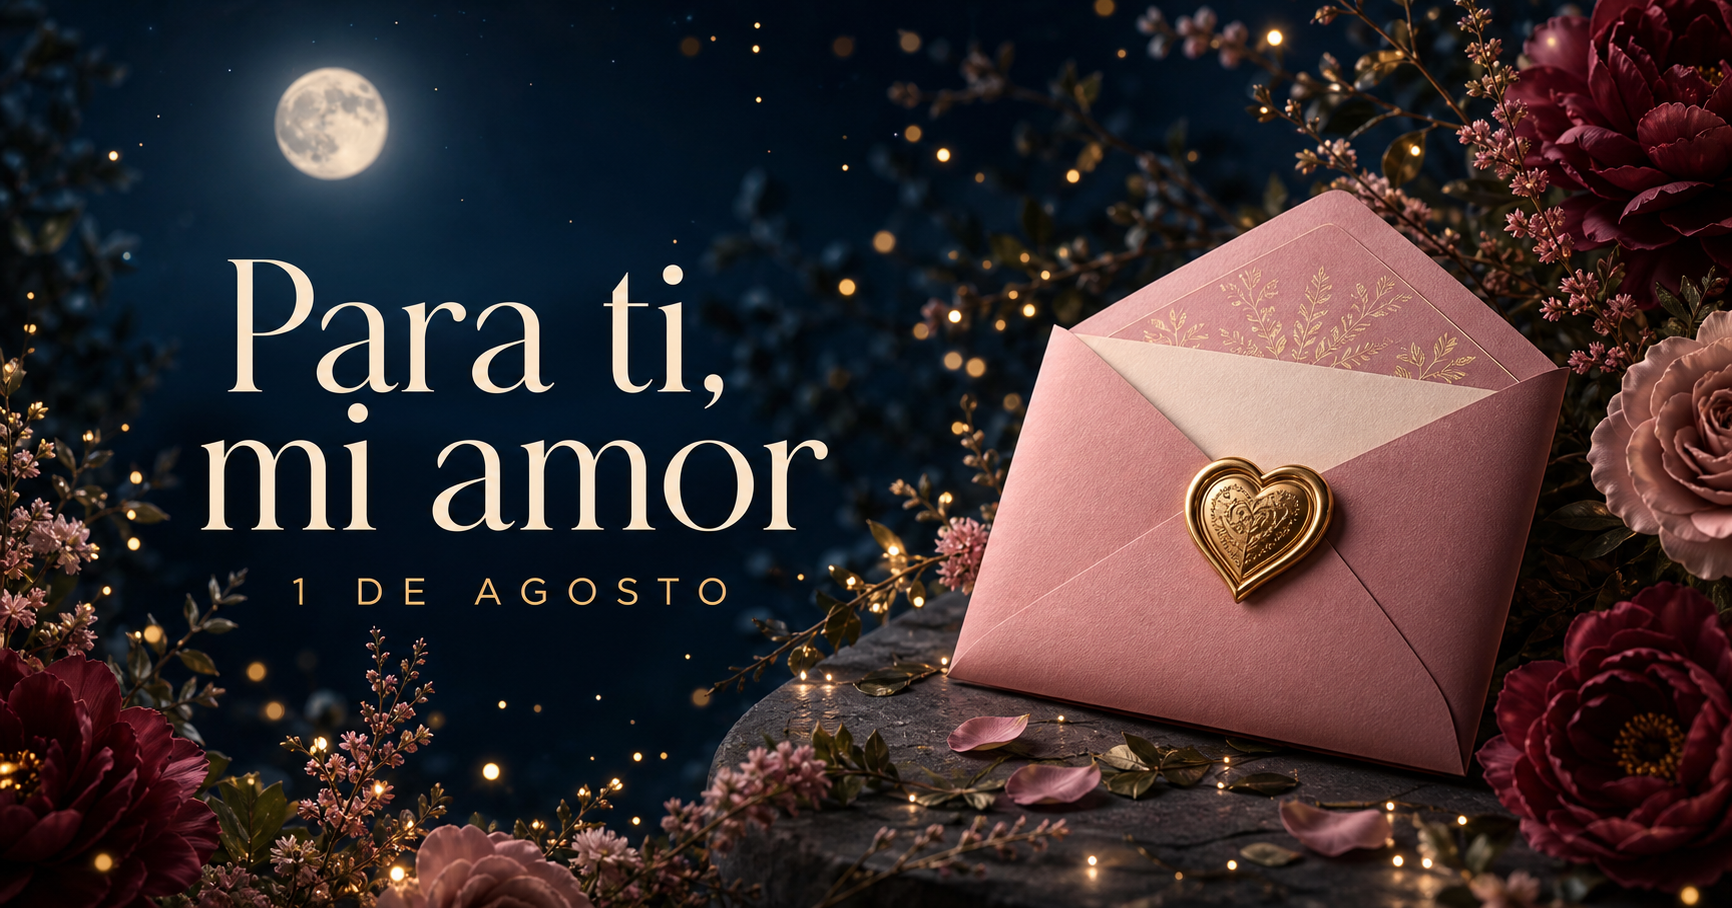
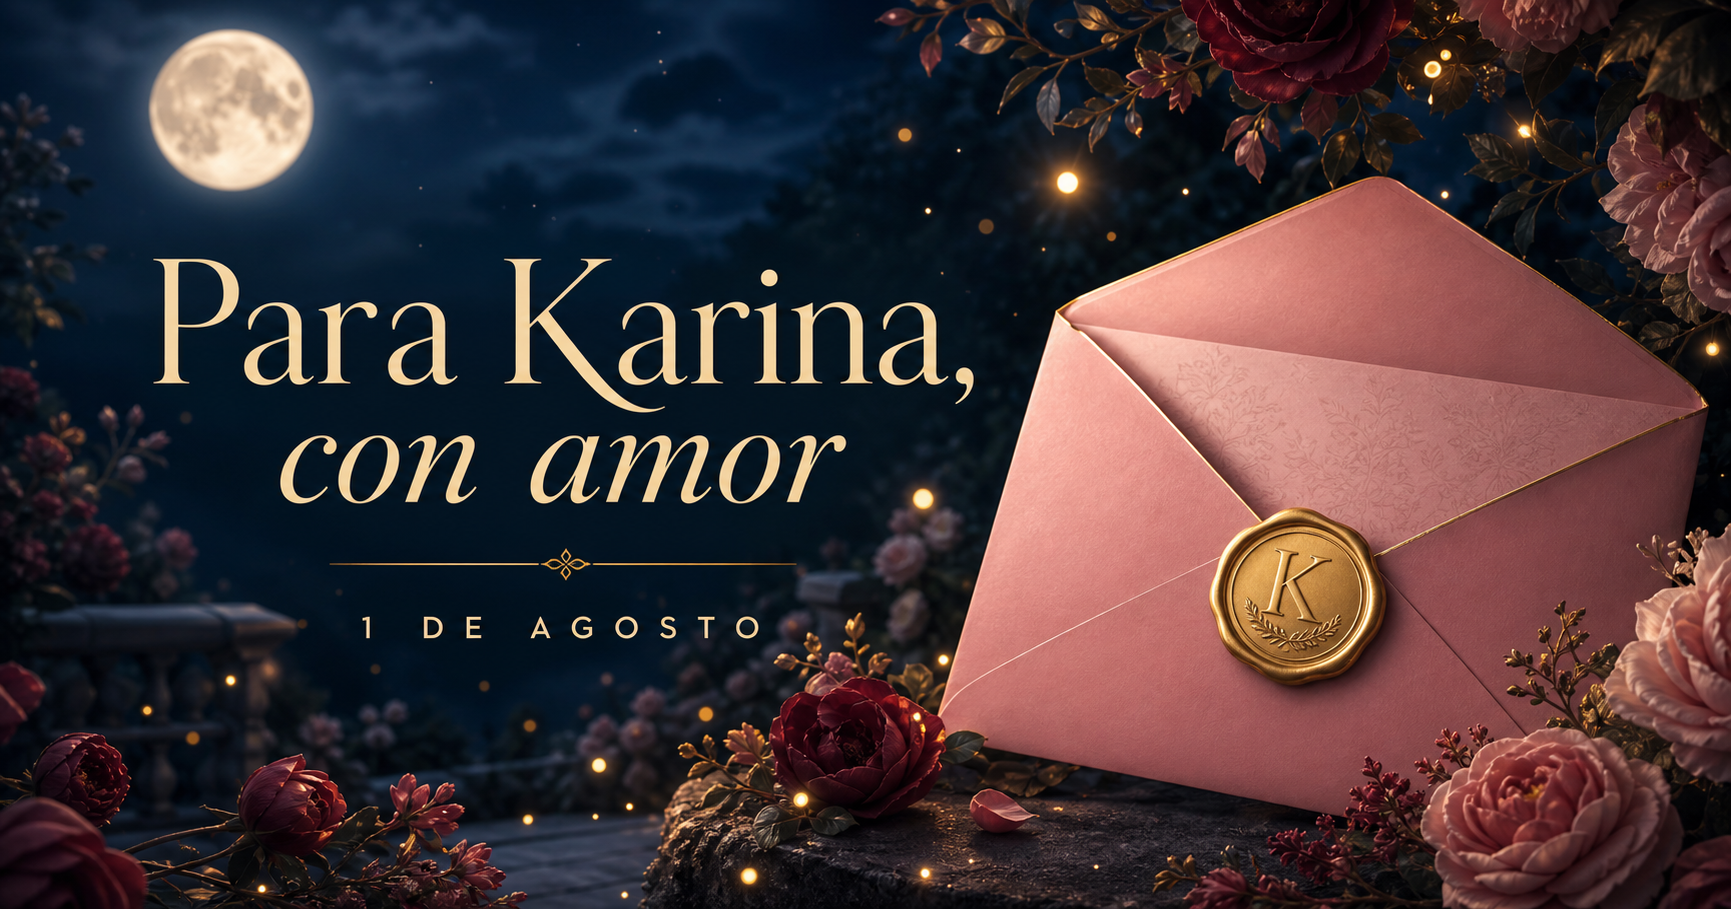
Personalize romantic experience for Karina

diff --git a/app/page.tsx b/app/page.tsx
@@ -1,40 +1,105 @@
 "use client";
 
-import { useState } from "react";
+import { useEffect, useRef, useState } from "react";
 
 const reasons = [
-  "Por tu sonrisa, que vuelve bonito hasta un día cualquiera.",
+  "Por tu sonrisa, Karina, que vuelve bonito hasta un día cualquiera.",
   "Por la paz que siento cuando estoy contigo.",
   "Por cada detalle tuyo que hace mi mundo más especial.",
   "Porque contigo aprendí que el amor también se siente como hogar.",
+  "Porque hasta los momentos sencillos se vuelven inolvidables a tu lado.",
+  "Porque eres tú, y no cambiaría ni un pedacito de nuestra historia.",
+];
+
+const promises = [
+  ["01", "Cuidar tu corazón", "Tratar lo nuestro con la ternura que merece."],
+  ["02", "Celebrar tus sueños", "Estar a tu lado mientras conquistas cada uno."],
+  ["03", "Elegirte siempre", "En los días fáciles y también en los complicados."],
 ];
 
 export default function Home() {
   const [opened, setOpened] = useState(false);
   const [reason, setReason] = useState(0);
+  const [musicPlaying, setMusicPlaying] = useState(false);
+  const [finalOpened, setFinalOpened] = useState(false);
+  const audioContext = useRef<AudioContext | null>(null);
+  const loopTimer = useRef<ReturnType<typeof setTimeout> | null>(null);
 
-  function showAnotherReason() {
-    setReason((current) => (current + 1) % reasons.length);
+  function playPhrase(context: AudioContext, start: number) {
+    const melody = [
+      [261.63, 0], [329.63, .6], [392, 1.2], [493.88, 1.8],
+      [440, 2.6], [392, 3.2], [329.63, 3.8], [293.66, 4.6],
+      [349.23, 5.2], [440, 5.8], [392, 6.6], [329.63, 7.3],
+    ];
+    melody.forEach(([frequency, offset]) => {
+      const oscillator = context.createOscillator();
+      const gain = context.createGain();
+      oscillator.type = "sine";
+      oscillator.frequency.value = frequency;
+      gain.gain.setValueAtTime(0, start + offset);
+      gain.gain.linearRampToValueAtTime(.055, start + offset + .08);
+      gain.gain.exponentialRampToValueAtTime(.001, start + offset + .72);
+      oscillator.connect(gain).connect(context.destination);
+      oscillator.start(start + offset);
+      oscillator.stop(start + offset + .8);
+    });
   }
+
+  function scheduleMusic(context: AudioContext) {
+    playPhrase(context, context.currentTime + .05);
+    loopTimer.current = setTimeout(() => scheduleMusic(context), 8200);
+  }
+
+  async function toggleMusic() {
+    if (musicPlaying) {
+      if (loopTimer.current) clearTimeout(loopTimer.current);
+      await audioContext.current?.suspend();
+      setMusicPlaying(false);
+      return;
+    }
+    if (!audioContext.current) {
+      audioContext.current = new AudioContext();
+      scheduleMusic(audioContext.current);
+    } else {
+      await audioContext.current.resume();
+      scheduleMusic(audioContext.current);
+    }
+    setMusicPlaying(true);
+  }
+
+  useEffect(() => {
+    return () => {
+      if (loopTimer.current) clearTimeout(loopTimer.current);
+      void audioContext.current?.close();
+    };
+  }, []);
 
   return (
     <main>
+      <button
+        className={`music-button ${musicPlaying ? "playing" : ""}`}
+        onClick={toggleMusic}
+        aria-label={musicPlaying ? "Pausar música romántica" : "Reproducir música romántica"}
+      >
+        <span className="music-icon" aria-hidden="true">{musicPlaying ? "♫" : "♪"}</span>
+        <span>{musicPlaying ? "Nuestra melodía" : "Ponle música"}</span>
+        <i aria-hidden="true" />
+      </button>
+
       <section className="hero">
         <div className="stars" aria-hidden="true">
-          {Array.from({ length: 24 }, (_, index) => (
-            <i key={index} />
-          ))}
+          {Array.from({ length: 24 }, (_, index) => <i key={index} />)}
         </div>
         <div className="hero-copy">
           <p className="eyebrow">01 · AGOSTO</p>
           <p className="for-you">Una página hecha solo para ti</p>
           <h1>
             Feliz día,
-            <span>mi amor</span>
+            <span>Karina</span>
           </h1>
           <p className="intro">
             Hay personas que llegan a tu vida y, sin hacer ruido, la convierten
-            en tu lugar favorito.
+            en tu lugar favorito. Tú eres esa persona para mí.
           </p>
           <a className="primary-button" href="#carta">
             Descubre tu sorpresa <span aria-hidden="true">↓</span>
@@ -44,10 +109,20 @@ export default function Home() {
         <div className="scroll-hint" aria-hidden="true">DESLIZA</div>
       </section>
 
+      <section className="name-section">
+        <p className="eyebrow gold">LA DUEÑA DE ESTA HISTORIA</p>
+        <div className="name-display" aria-label="Karina">
+          {"KARINA".split("").map((letter, index) => (
+            <span key={letter + index} style={{ animationDelay: `${index * .12}s` }}>{letter}</span>
+          ))}
+        </div>
+        <p>Seis letras. Un nombre. Mi persona favorita.</p>
+      </section>
+
       <section className="letter-section" id="carta">
         <div className="section-heading">
           <p className="eyebrow dark">PARA LA PERSONA MÁS BONITA</p>
-          <h2>Una carta para ti</h2>
+          <h2>Una carta para Karina</h2>
           <div className="flourish">♡</div>
         </div>
 
@@ -58,7 +133,7 @@ export default function Home() {
         >
           <span className="envelope-back" />
           <span className="letter">
-            <span className="letter-kicker">Mi amor,</span>
+            <span className="letter-kicker">Mi querida Karina,</span>
             <span>
               No sabía que a la vida le faltaba algo hasta que llegaste tú.
               Hoy celebro tu sonrisa, tu manera de querer y la suerte infinita
@@ -68,7 +143,7 @@ export default function Home() {
             <em>Con todo mi amor ♡</em>
           </span>
           <span className="envelope-front" />
-          <span className="seal">♡</span>
+          <span className="seal">K</span>
           {!opened && <span className="tap-label">Toca para abrir</span>}
         </button>
       </section>
@@ -78,9 +153,28 @@ export default function Home() {
           <p className="eyebrow gold">UNA DE TANTAS RAZONES</p>
           <div className="quote-mark">“</div>
           <p className="reason-text" key={reason}>{reasons[reason]}</p>
-          <button className="text-button" onClick={showAnotherReason}>
+          <button className="text-button" onClick={() => setReason((reason + 1) % reasons.length)}>
             Otra razón <span aria-hidden="true">♡</span>
           </button>
+          <div className="reason-dots" aria-hidden="true">
+            {reasons.map((_, index) => <i className={index === reason ? "active" : ""} key={index} />)}
+          </div>
+        </div>
+      </section>
+
+      <section className="promises-section">
+        <div className="section-heading">
+          <p className="eyebrow dark">LO QUE QUIERO REGALARTE</p>
+          <h2>Tres promesas para nosotros</h2>
+        </div>
+        <div className="promise-grid">
+          {promises.map(([number, title, copy]) => (
+            <article className="promise" key={number}>
+              <span>{number}</span>
+              <h3>{title}</h3>
+              <p>{copy}</p>
+            </article>
+          ))}
         </div>
       </section>
 
@@ -99,14 +193,34 @@ export default function Home() {
             encontrarte. Porque desde que estás aquí, cada instante tiene un
             poquito más de luz.
           </p>
-          <div className="signature">
-            Siempre tú <span>♡</span>
-          </div>
+          <div className="signature">Siempre tú, Karina <span>♡</span></div>
+        </div>
+      </section>
+
+      <section className="final-surprise">
+        <div className={`final-card ${finalOpened ? "revealed" : ""}`}>
+          {!finalOpened ? (
+            <>
+              <span className="gift-heart">♡</span>
+              <p className="eyebrow gold">UNA ÚLTIMA SORPRESA</p>
+              <h2>Karina, tengo una pregunta para ti…</h2>
+              <button className="final-button" onClick={() => setFinalOpened(true)}>
+                Descubrirla
+              </button>
+            </>
+          ) : (
+            <div className="answer">
+              <span className="big-heart">♡</span>
+              <h2>¿Quieres seguir creando recuerdos hermosos conmigo?</h2>
+              <p>Porque mi lugar favorito siempre será donde estés tú.</p>
+              <strong>Te quiero, Karina</strong>
+            </div>
+          )}
         </div>
       </section>
 
       <footer>
-        <span>Hecho con amor</span>
+        <span>Hecho especialmente para Karina</span>
         <b>♡</b>
         <span>1 de agosto</span>
       </footer>

diff --git a/app/globals.css b/app/globals.css
@@ -17,6 +17,29 @@ body { margin: 0; background: var(--cream); color: var(--ink); font-family: var(
 button, a { font: inherit; }
 button { cursor: pointer; }
 
+.music-button {
+  position: fixed;
+  z-index: 30;
+  top: 1.25rem;
+  right: 1.25rem;
+  display: flex;
+  align-items: center;
+  gap: .7rem;
+  padding: .65rem 1rem .65rem .7rem;
+  border: 1px solid rgba(216,180,109,.45);
+  border-radius: 99px;
+  color: #f7f0e5;
+  background: rgba(6,23,31,.75);
+  backdrop-filter: blur(14px);
+  box-shadow: 0 8px 30px rgba(0,0,0,.18);
+  font-size: .66rem;
+  letter-spacing: .12em;
+  text-transform: uppercase;
+}
+.music-icon { display:grid; place-items:center; width:2rem; height:2rem; border-radius:50%; color:var(--night); background:var(--gold); font-size:1rem; }
+.music-button i { width:5px; height:5px; border-radius:50%; background:var(--rose); }
+.music-button.playing i { animation:pulse 1.2s ease-in-out infinite; box-shadow:0 0 12px var(--rose); }
+
 .hero {
   min-height: 100svh;
   position: relative;
@@ -92,6 +115,21 @@ h1 span { display: block; font-family: var(--font-script); color: var(--gold); f
 .primary-button:hover { color: var(--gold); gap: 1.5rem; }
 .scroll-hint { position: absolute; bottom: 2.4rem; left: 2.2rem; writing-mode: vertical-rl; font-size: .55rem; letter-spacing: .35em; color: rgba(255,255,255,.45); }
 
+.name-section {
+  min-height: 520px;
+  display:grid;
+  align-content:center;
+  justify-items:center;
+  text-align:center;
+  padding:6rem 1.5rem;
+  color:var(--cream);
+  background:#0b2028;
+  overflow:hidden;
+}
+.name-display { display:flex; gap:clamp(.15rem,2vw,1.2rem); margin:.4rem 0 1.5rem; }
+.name-display span { font-family:var(--font-display); font-size:clamp(4.5rem,14vw,11rem); line-height:.9; color:transparent; -webkit-text-stroke:1px var(--gold); text-shadow:0 0 45px rgba(216,180,109,.15); animation:nameIn .8s both; }
+.name-section > p:last-child { font-family:var(--font-script); font-size:clamp(1.5rem,3vw,2.4rem); color:#d9b8b5; }
+
 .letter-section { min-height: 930px; padding: 8rem 1.5rem 5rem; text-align: center; overflow: hidden; background: radial-gradient(circle at center, #fffdf7 0%, #f2e7d7 70%); }
 .section-heading h2, .keepsake h2 { font-size: clamp(3rem, 7vw, 5.5rem); margin: 0; color: var(--wine); line-height: 1; }
 .flourish { color: var(--gold); font-size: 1.5rem; margin: 1rem 0 5rem; }
@@ -117,6 +155,18 @@ h1 span { display: block; font-family: var(--font-script); color: var(--gold); f
 .quote-mark { font-family:Georgia,serif; color:var(--gold); font-size:5rem; height:3.5rem; }
 .reason-text { font-family:var(--font-display); font-size:clamp(2rem,5vw,3.7rem); line-height:1.2; margin:1.5rem 0 2.6rem; animation:fade .5s ease; }
 .text-button { border:0; border-bottom:1px solid var(--gold); padding:.7rem 0; color:var(--gold); background:transparent; font-size:.72rem; letter-spacing:.2em; text-transform:uppercase; }
+.reason-dots { display:flex; justify-content:center; gap:.5rem; margin-top:2.5rem; }
+.reason-dots i { width:5px; height:5px; border-radius:50%; background:rgba(216,180,109,.3); transition:.3s; }
+.reason-dots i.active { width:22px; border-radius:5px; background:var(--gold); }
+
+.promises-section { padding:8rem 7vw; background:#fbf5ec; text-align:center; }
+.promises-section .section-heading { margin-bottom:4rem; }
+.promise-grid { max-width:1200px; margin:auto; display:grid; grid-template-columns:repeat(3,1fr); border-top:1px solid rgba(111,41,56,.2); border-bottom:1px solid rgba(111,41,56,.2); }
+.promise { padding:4rem 3rem; position:relative; }
+.promise + .promise { border-left:1px solid rgba(111,41,56,.2); }
+.promise > span { font-family:var(--font-display); font-size:1.2rem; color:var(--gold); }
+.promise h3 { font-family:var(--font-display); font-size:2rem; font-weight:500; color:var(--wine); margin:1.2rem 0; }
+.promise p { font-size:.85rem; line-height:1.8; color:#685b55; }
 
 .keepsake { display:grid; grid-template-columns:1fr 1fr; min-height:820px; background:#eee0cf; }
 .keepsake-image { margin:5rem; position:relative; box-shadow:0 24px 70px rgba(48,39,35,.2); }
@@ -127,11 +177,26 @@ h1 span { display: block; font-family: var(--font-script); color: var(--gold); f
 .signature { font-family:var(--font-script); font-size:2.5rem; color:var(--wine); }
 .signature span { color:var(--gold); }
 
+.final-surprise { min-height:760px; display:grid; place-items:center; padding:5rem 1.5rem; background:radial-gradient(circle at center,rgba(216,180,109,.14),transparent 27rem),#071923; color:var(--cream); text-align:center; }
+.final-card { width:min(850px,92vw); min-height:500px; display:grid; place-content:center; justify-items:center; padding:4rem; border:1px solid rgba(216,180,109,.38); position:relative; }
+.final-card::before { content:""; position:absolute; inset:12px; border:1px solid rgba(216,180,109,.12); }
+.gift-heart { font-family:var(--font-display); font-size:5rem; color:var(--gold); line-height:1; }
+.final-card h2 { font-size:clamp(2.7rem,6vw,5rem); max-width:720px; margin:1rem auto 2.5rem; line-height:1.05; }
+.final-button { position:relative; z-index:2; border:1px solid var(--gold); color:var(--cream); background:transparent; padding:1rem 2rem; font-size:.7rem; letter-spacing:.22em; text-transform:uppercase; transition:.3s; }
+.final-button:hover { background:var(--gold); color:var(--night); }
+.answer { animation:fade 1s ease; }
+.big-heart { display:block; color:var(--gold); font-size:5rem; animation:heartbeat 1.5s ease-in-out infinite; }
+.answer p { font-family:var(--font-display); font-size:1.4rem; color:#dfd3c5; }
+.answer strong { display:block; margin-top:2rem; font-family:var(--font-script); font-size:2.7rem; color:#dba6a8; font-weight:400; }
+
 footer { background:#06171f; color:#e6daca; display:flex; justify-content:center; align-items:center; gap:1.5rem; padding:2.2rem; font-size:.65rem; letter-spacing:.25em; text-transform:uppercase; }
 footer b { color:var(--gold); font-size:1.2rem; }
 
 @keyframes twinkle { from { opacity:.2; transform:scale(.6); } to { opacity:1; transform:scale(1.25); } }
 @keyframes fade { from { opacity:0; transform:translateY(8px); } to { opacity:1; transform:none; } }
+@keyframes pulse { 50% { transform:scale(1.6); opacity:.55; } }
+@keyframes nameIn { from { opacity:0; transform:translateY(35px); } to { opacity:1; transform:none; } }
+@keyframes heartbeat { 0%,100% { transform:scale(1); } 15% { transform:scale(1.15); } 30% { transform:scale(1); } }
 
 @media (max-width: 760px) {
   .moon { width:4.5rem; right:7%; top:10%; }
@@ -145,10 +210,16 @@ footer b { color:var(--gold); font-size:1.2rem; }
   .envelope.opened .letter { transform:translateY(-170px); }
   .seal { width:52px; height:52px; top:54%; }
   .reason-card { padding:3.5rem 1.5rem; }
+  .promise-grid { grid-template-columns:1fr; }
+  .promise + .promise { border-left:0; border-top:1px solid rgba(111,41,56,.2); }
+  .promise { padding:3rem 1rem; }
   .keepsake { grid-template-columns:1fr; }
   .keepsake-image { margin:4rem 2rem 2rem; max-height:720px; }
   .keepsake-copy { padding:4rem 2rem 6rem; text-align:center; align-items:center; }
   footer { flex-wrap:wrap; gap:.8rem; text-align:center; }
+  .music-button { top:.8rem; right:.8rem; }
+  .music-button > span:nth-child(2) { display:none; }
+  .final-card { padding:3rem 1.5rem; min-height:480px; }
 }
 
 @media (prefers-reduced-motion: reduce) {

diff --git a/app/layout.tsx b/app/layout.tsx
@@ -21,17 +21,17 @@ const script = Parisienne({
 });
 
 export const metadata: Metadata = {
-  title: "Para ti, mi amor | 1 de agosto",
-  description: "Una sorpresa especial para celebrar el Día de la Novia.",
+  title: "Para Karina, con amor | 1 de agosto",
+  description: "Una sorpresa romántica creada especialmente para Karina.",
   openGraph: {
-    title: "Para ti, mi amor",
-    description: "Una sorpresa especial para celebrar el 1 de agosto.",
+    title: "Para Karina, con amor",
+    description: "Una sorpresa romántica creada especialmente para Karina.",
     images: [{ url: "/og.png", width: 1732, height: 906 }],
   },
   twitter: {
     card: "summary_large_image",
-    title: "Para ti, mi amor",
-    description: "Una sorpresa especial para celebrar el 1 de agosto.",
+    title: "Para Karina, con amor",
+    description: "Una sorpresa romántica creada especialmente para Karina.",
     images: ["/og.png"],
   },
 };
